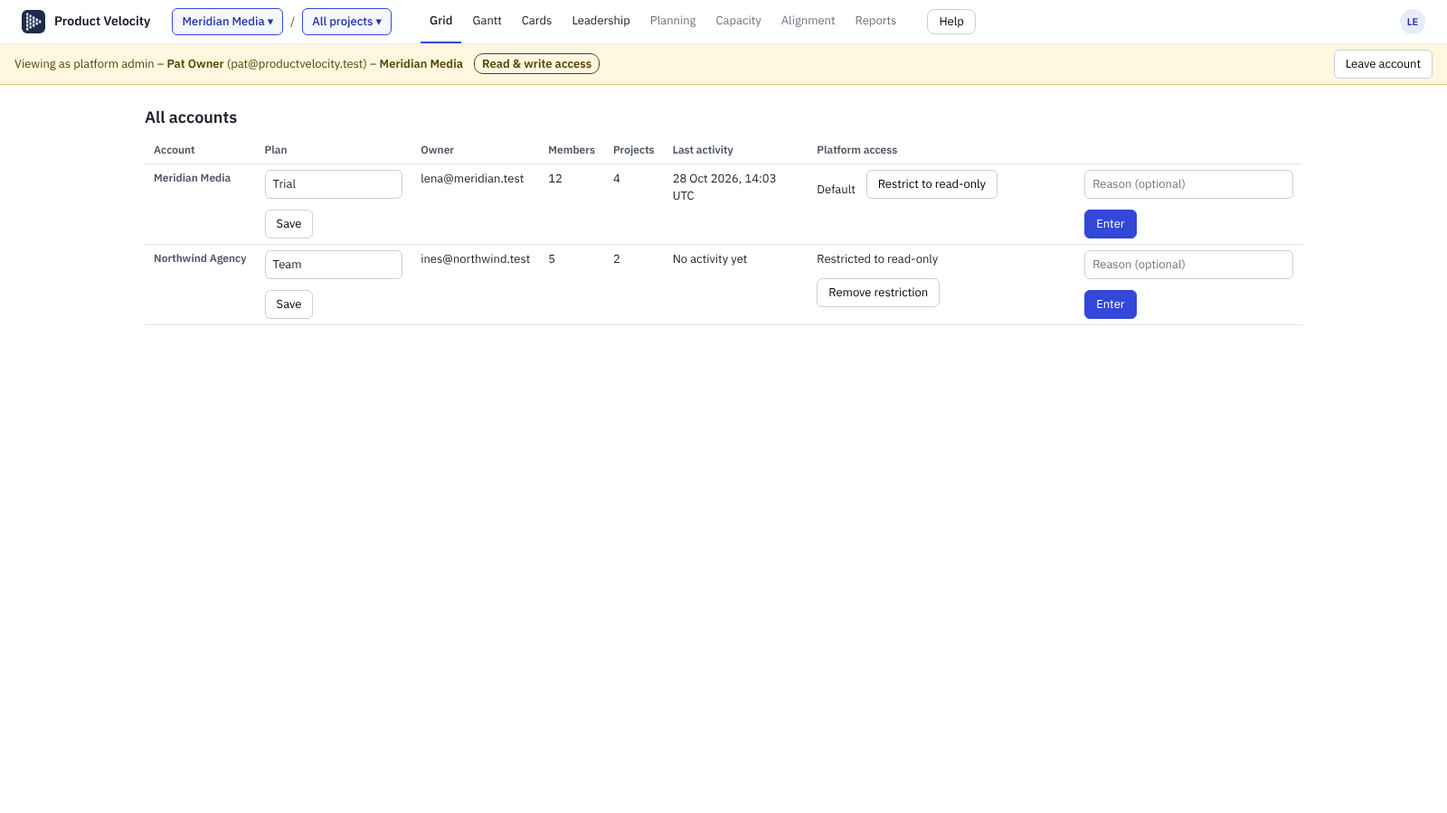
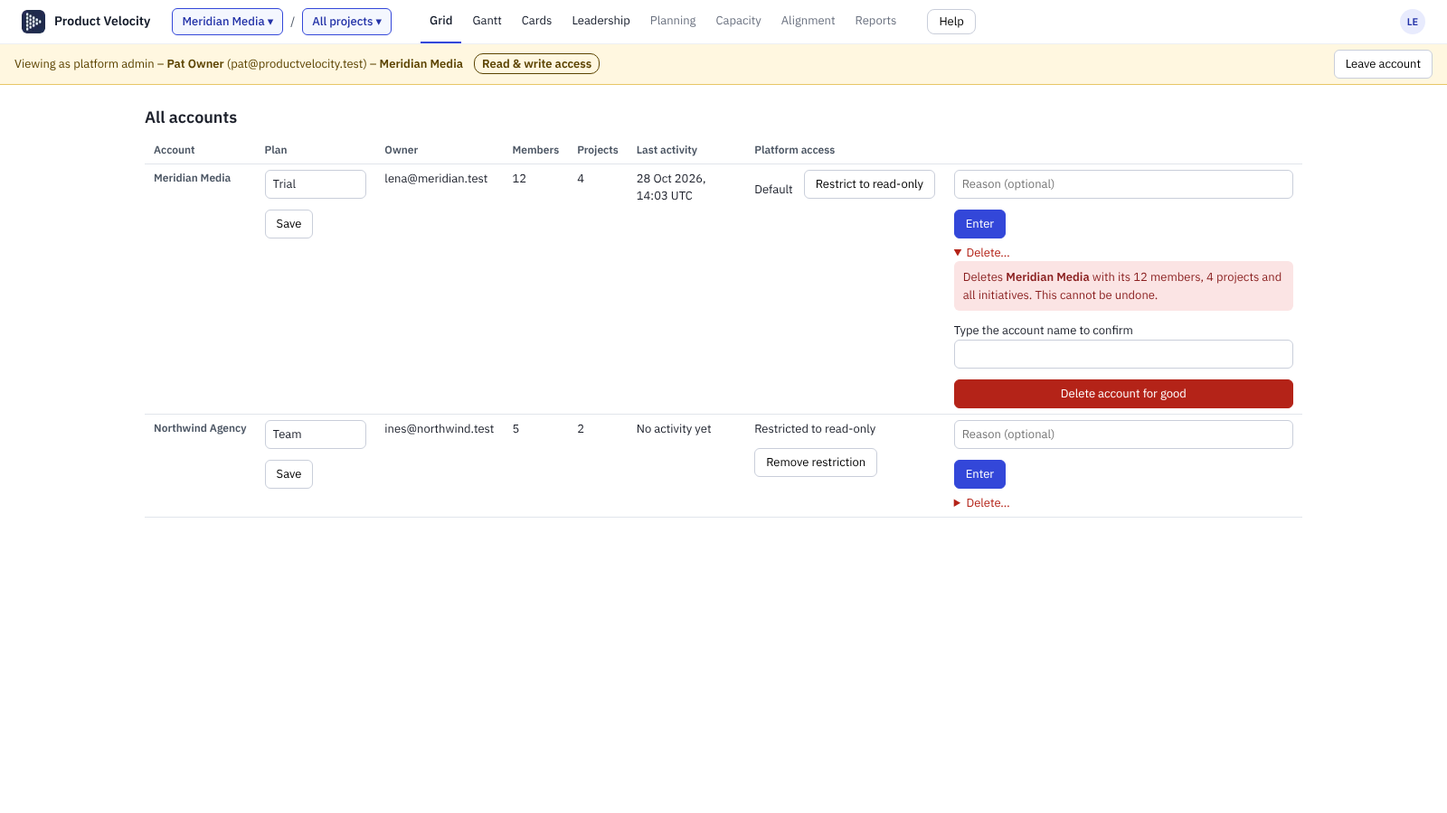
Account switcher width and links, delete account for platform admins, + New account (R-111 follow-up, migration 0053)
Claude-Session: https://claude.ai/code/session_01TMdyHtvBtjsL23qP6HSBBB

diff --git a/apps/web/e2e/accounts.spec.ts b/apps/web/e2e/accounts.spec.ts
@@ -14,6 +14,12 @@ test.describe("account switcher (FR-1)", () => {
     await expect(menu.getByText("Recent")).toBeVisible();
     await expect(menu.getByRole("menuitemradio", { name: /Harbor Logistics/ })).toBeVisible();
     await expect(page.getByTestId("all-accounts-link")).toHaveCount(0); // platform admins only
+    await expect(page.getByTestId("new-account-link")).toHaveAttribute("href", "/onboarding?new=1");
+    // the search box stays inside the menu (it used to overflow)
+    const menuBox = await page.getByTestId("account-menu").boundingBox();
+    const searchBox = await page.getByLabel("Search accounts").boundingBox();
+    expect(menuBox!.width).toBeGreaterThanOrEqual(320);
+    expect(searchBox!.x + searchBox!.width).toBeLessThanOrEqual(menuBox!.x + menuBox!.width + 0.5);
     await page.screenshot({ path: "../../docs/screenshots/account-switcher.png" });
     await page.getByRole("searchbox", { name: "Search accounts" }).or(page.getByRole("combobox", { name: "Search accounts" })).fill("north");
     await expect(menu.getByRole("menuitemradio")).toHaveCount(1);
@@ -37,6 +43,9 @@ test.describe("account switcher (FR-1)", () => {
     await page.goto("/dev/accounts?accounts=1&platform=1");
     await page.getByTestId("account-chip").click();
     await expect(page.getByTestId("all-accounts-link")).toHaveAttribute("href", "/platform");
+    // one link per row: nothing else in the row is a link
+    await expect(page.getByTestId("all-accounts-link").getByRole("link")).toHaveCount(0);
+    await page.screenshot({ path: "../../docs/screenshots/account-switcher-platform.png" });
   });
 });
 
@@ -105,6 +114,12 @@ test.describe("All accounts console (FR-2.2)", () => {
     await expect(rows.nth(1)).toContainText("No activity yet");
     await expect(rows.nth(1).getByRole("button", { name: "Remove restriction" })).toBeVisible();
     await expect(page.getByTestId("enter-account")).toHaveCount(2);
+    // delete asks for the account name first
+    const del = rows.nth(0).locator("details.delete-account");
+    await del.locator("summary").click();
+    await expect(del).toContainText("Deletes Meridian Media with its 12 members, 4 projects");
+    await expect(del.getByLabel("Type Meridian Media to confirm deleting it")).toBeVisible();
+    await expect(del.getByTestId("delete-account")).toBeVisible();
     await page.screenshot({ path: "../../docs/screenshots/platform-console.png" });
   });
   test("has no accessibility violations", async ({ page }) => {

diff --git a/packages/db/tests/platform-admin.test.ts b/packages/db/tests/platform-admin.test.ts
@@ -290,6 +290,32 @@ describe("platform-wide audit log (FR-6.6)", () => {
   });
 });
 
+describe("deleting an account (typed confirmation)", () => {
+  it("is refused to everyone but platform admins, and to a wrong name", async () => {
+    await reset();
+    expect(await errorCode(db.asUser(f.alice, (q) => q("select public.platform_delete_account($1, 'Tenant A')", [f.tenantA])))).toBe("42501");
+    expect(await errorCode(asPat((q) => q("select public.platform_delete_account($1, 'tenant a')", [f.tenantA])))).toBe("PV024");
+    expect(await errorCode(asPat((q) => q("select public.platform_delete_account(gen_random_uuid(), 'x')")))).toBe("P0002");
+    expect((await db.admin.query("select 1 from public.tenants where id = $1", [f.tenantA])).rowCount).toBe(1);
+  });
+
+  it("removes that account and all its data, leaves the other account whole, and logs who did it", async () => {
+    const before = (await db.admin.query("select count(*)::int n from public.items where tenant_id = $1", [f.tenantB])).rows[0].n;
+    await enter(f.tenantA); // an open entry must not block the cascade
+    const name = (await db.admin.query("select name from public.tenants where id = $1", [f.tenantA])).rows[0].name;
+    await asPat((q) => q("select public.platform_delete_account($1, $2)", [f.tenantA, name]), { commit: true });
+    for (const t of ["tenants", "tenant_members", "projects", "items", "invitations"]) {
+      expect((await db.admin.query(`select 1 from public.${t} where ${t === "tenants" ? "id" : "tenant_id"} = $1`, [f.tenantA])).rowCount, t).toBe(0);
+    }
+    expect((await db.admin.query("select count(*)::int n from public.items where tenant_id = $1", [f.tenantB])).rows[0].n).toBe(before);
+    // the members of the deleted account lose it; their other accounts stay
+    expect(await db.asUser(f.alice, async (q) => (await q("select 1 from public.tenants")).rowCount)).toBe(0);
+    const log = await asPat<{ field: string; actor_email: string; old: { name: string; members: number } }[]>(async (q) => (await q("select * from public.platform_config_log()")).rows);
+    expect(log[0]).toMatchObject({ field: "account_deleted", actor_email: "pat@platform.test" });
+    expect(log[0].old).toMatchObject({ name, members: 2 });
+  });
+});
+
 describe("guard coverage", () => {
   it("every public table with a tenant has the read-only guard, so a new table cannot be forgotten", async () => {
     const { rows } = await db.admin.query(

diff --git a/apps/web/src/app/platform/accounts-table.tsx b/apps/web/src/app/platform/accounts-table.tsx
@@ -1,5 +1,5 @@
 import { formatWhen } from "@/lib/audit-log";
-import { enterAccount, setAccountLevel, setPlan } from "./actions";
+import { deleteAccount, enterAccount, setAccountLevel, setPlan } from "./actions";
 
 export type AccountRow = { tenant_id: string; name: string; plan: string; owner_email: string | null; member_count: number; project_count: number; last_activity: string | null; access_override: string | null };
 
@@ -45,6 +45,15 @@ export function AccountsTable({ rows }: { rows: AccountRow[] }) {
                     <input name="reason" maxLength={500} placeholder="Reason (optional)" aria-label={`Reason for entering ${a.name}`} />
                     <button className="btn btn-primary" type="submit" data-testid="enter-account">Enter</button>
                   </form>
+                  <details className="delete-account">
+                    <summary>Delete…</summary>
+                    <form action={deleteAccount} className="stack">
+                      <input type="hidden" name="tenant" value={a.tenant_id} />
+                      <p className="error">Deletes <strong>{a.name}</strong> with its {a.member_count} members, {a.project_count} projects and all initiatives. This cannot be undone.</p>
+                      <label>Type the account name to confirm<input name="confirm_name" autoComplete="off" required aria-label={`Type ${a.name} to confirm deleting it`} /></label>
+                      <button className="btn btn-danger" type="submit" data-testid="delete-account">Delete account for good</button>
+                    </form>
+                  </details>
                 </td>
               </tr>
             ))}

diff --git a/apps/web/src/app/onboarding/page.tsx b/apps/web/src/app/onboarding/page.tsx
@@ -10,7 +10,7 @@ export const metadata = { title: "Create your workspace · Product Velocity" };
 export default async function OnboardingPage({ searchParams }: { searchParams: Promise<{ new?: string }> }) {
   const { new: wantsNew } = await searchParams;
   const { supabase, user } = await requireUser("/onboarding");
-  if ((await loadMemberships(supabase, user.id)).length > 0) redirect("/portfolio");
+  if (wantsNew !== "1" && (await loadMemberships(supabase, user.id)).length > 0) redirect("/portfolio"); // ?new=1 is the switcher's "+ New account"
   // someone at an authorized domain waits for their admin instead of starting a second workspace (they can still choose to)
   if (wantsNew !== "1") {
     const asked = user.email ? await syncDomainAccess(supabase, user.email) : [];
@@ -21,9 +21,9 @@ export default async function OnboardingPage({ searchParams }: { searchParams: P
   return (
     <main className="auth-page">
       <div className="card auth-card">
-        <h1>Create your workspace</h1>
+        <h1>{wantsNew === "1" ? "Create a new account" : "Create your workspace"}</h1>
         <p className="muted">
-          You will be its first admin. You can invite your team next. If someone already invited
+          You will be its first admin. You can invite your team next, from Members in the account menu. If someone already invited
           you, open the invitation link they sent instead.
         </p>
         <CreateTenantForm suggestedDomain={suggested} countries={countryOptions()} currencies={currencyOptions()} timeZones={timeZoneOptions()} />

diff --git a/apps/web/src/components/account-switcher.tsx b/apps/web/src/components/account-switcher.tsx
@@ -73,12 +73,13 @@ export function AccountSwitcher({ accounts, activeId, activeName, isPlatformAdmi
             {shownRecent.map((a) => row(a, `r-${a.tenantId}`))}
             {shown.length > 0 && <p className="scope-head">{accounts.length === 1 ? "Your account" : "All your accounts"}</p>}
             {shown.map((a) => row(a, a.tenantId))}
-            {isPlatformAdmin && !searching && (
+            {!searching && (
               <>
-                <p className="scope-head">Platform</p>
-                <Link role="menuitem" href="/platform" className="scope-item" data-testid="all-accounts-link" onClick={() => close()}>
-                  <span>All accounts console</span><span className="scope-meta">platform admins</span>
-                </Link>
+                <p className="scope-head">More</p>
+                <Link role="menuitem" href="/onboarding?new=1" className="scope-item scope-link" data-testid="new-account-link" onClick={() => close()}>+ New account</Link>
+                {isPlatformAdmin && (
+                  <Link role="menuitem" href="/platform" className="scope-item scope-link" data-testid="all-accounts-link" onClick={() => close()}>All accounts console (platform admins)</Link>
+                )}
               </>
             )}
           </div>

diff --git a/apps/web/src/app/platform/page.tsx b/apps/web/src/app/platform/page.tsx
@@ -12,6 +12,8 @@ const NOTICE: Record<string, string> = {
   "account-unrestricted": "The read-only restriction on that account was removed. The change is in its audit log.",
   "plan-saved": "Plan saved.",
   "bad-plan": "Enter a plan name of 1 to 40 characters.",
+  deleted: "Account deleted. This is recorded in the configuration log.",
+  "delete-name": "The name you typed does not match, so nothing was deleted.",
   failed: "That did not work. Please try again.",
 };
 
@@ -31,7 +33,7 @@ export default async function PlatformAccountsPage({ searchParams }: { searchPar
         . Entering an account is logged in that account&rsquo;s audit log, and a banner stays on screen while you are inside.
       </p>
       {notice && NOTICE[notice] && (
-        <p role="status" className={notice === "reauth" || notice === "failed" || notice === "enter-failed" ? "notice notice-error" : "notice"}>{NOTICE[notice]}</p>
+        <p role="status" className={notice === "reauth" || notice === "failed" || notice === "enter-failed" || notice === "delete-name" ? "notice notice-error" : "notice"}>{NOTICE[notice]}</p>
       )}
       {notice === "reauth" && (
         <form action="/auth/sign-out" method="post">

diff --git a/apps/web/src/styles/globals.css b/apps/web/src/styles/globals.css
@@ -672,3 +672,12 @@ kbd { font-family: var(--font-mono); font-size: 12px; background: var(--grey-3);
 .data-table th { font-size: 12px; color: #4b5563; font-weight: 600; white-space: nowrap; }
 .filter-bar { display: flex; flex-wrap: wrap; gap: 8px; align-items: end; margin: 12px 0; }
 .filter-bar label { display: flex; flex-direction: column; gap: 2px; font-size: 12px; color: #4b5563; }
+
+/* R-111 follow-up: the account menu is wide enough for its search box, and its links read as one row each */
+.scope-menu:has(.search-input) { min-width: 320px; box-sizing: border-box; }
+.scope-menu .search-input { width: calc(100% - 16px); box-sizing: border-box; }
+a.scope-link { text-decoration: none; color: inherit; }
+a.scope-link:hover, a.scope-link:focus-visible { background: var(--blue-tint-2); outline: none; }
+.delete-account { margin-top: 6px; }
+.delete-account summary { cursor: pointer; color: #b42318; }
+.btn-danger { background: #b42318; border-color: #b42318; color: #fff; }

diff --git a/apps/web/src/app/platform/actions.ts b/apps/web/src/app/platform/actions.ts
@@ -73,3 +73,13 @@ export async function setPlan(form: FormData): Promise<void> {
   const { error } = await supabase.rpc("platform_set_plan", { p_tenant: tenant, p_plan: plan });
   done("/platform", error ? "failed" : "plan-saved");
 }
+
+/** Deletes an account for good. The database refuses unless the exact account name is typed; the deletion is recorded in the configuration log. */
+export async function deleteAccount(form: FormData): Promise<void> {
+  const tenant = String(form.get("tenant") ?? "");
+  const name = String(form.get("confirm_name") ?? "");
+  const { supabase } = await requirePlatformAdmin("/platform");
+  if (!UUID.test(tenant)) done("/platform", "bad-account");
+  const { error } = await supabase.rpc("platform_delete_account", { p_tenant: tenant, p_confirm_name: name });
+  done("/platform", error ? (error.code === "PV024" ? "delete-name" : "failed") : "deleted");
+}

diff --git a/apps/web/src/app/(workspace)/account/page.tsx b/apps/web/src/app/(workspace)/account/page.tsx
@@ -110,6 +110,7 @@ export default async function AccountPage({ searchParams }: { searchParams: Prom
           </tbody>
         </table>
         <p className="muted">A workspace always keeps at least one admin, so its last admin cannot leave. Leaving does not delete the work you did there.</p>
+        <p><Link className="btn" href="/onboarding?new=1">+ New account</Link> You become its first admin and can invite people from Members in the account menu.</p>
       </div>
 
       <h2>Notifications</h2>

diff --git a/docs/DECISIONS.md b/docs/DECISIONS.md
@@ -184,3 +184,4 @@ Append new decisions at the bottom: date, decision, reason, who decided.
 - 2026-10-28 · Issue #207 (R-109), 0.44.1: the sort was lost on Update for two reasons. (1) `saveDefaultView` (Update on a built-in view, which is a workspace view) never wrote `sort`. (2) Clearing a sort leaves no `sort` key in the view definition, and `updateView` only wrote the column when the key was present, so "no sort" was never saved and the old sort came back. Fix: both now write `sort` (null for none), the Update call passes `sort: null` explicitly and the store treats a present key as the value. Sort control is two steps (column, then direction and Apply); direction words by field type; a saved sort on a column the view does not show falls back to the default order. No migration (the `sort` column and its grants exist since 0041). Built on the branch `claude/intelligent-hamilton-32oge5` as the session required, not `issue-207-*`. · Claude
 - 2026-10-28 · Issue #216 (R-110), 0.45.0, migration 0049. Ashu chose: (1) **member status is a column on `tenant_members`** (`requested | active | paused | revoked`; "Invited" is a pending invitation, not a stored status), and every membership check (`is_tenant_member`, `is_tenant_admin`, the `my_*_tenant_ids()` helpers, `tenant_directory`, and the SECURITY DEFINER and trigger functions that read membership, which now read the security-invoker view `active_tenant_members`) counts **active rows only**, so a requested, paused or revoked person has no access anywhere; non-active people cannot read their own row either, they learn their state through `my_access_requests()`. (2) The grid offers **all five existing roles**, not only the issue's Admin / Creator / Viewer. (3) **Domain safety:** free-mail providers (gmail.com and about 25 more, `FREE_MAIL_DOMAINS` in `@pv/domain` and a trigger in 0049) cannot be authorized domains; only a **confirmed** email can request access; a request grants nothing until an admin sets Active. DNS verification stays out of scope (as the issue says), so two workspaces may list the same domain (a first claim must not lock the real owner out; the requester is then waiting in each) and the go-live checklist has the DNS item. (4) Country, currency and time zone are added to the workspace in this release. Decisions I made: status is changed only through `set_member_status(ids, status)` (admin, per-row result with a reason, audited, own row and service accounts refused, last active admin protected by the existing guard, now counting active admins only); there is no column grant on `status`. Allowed moves: requested to active or revoked, active to paused or revoked, paused to active or revoked, revoked to active. **Deviation from FR-4.3:** an *Invited* row cannot be set to Active by an admin (there is no account yet); it can be cancelled (Revoked), and the person becomes Active by accepting the invitation, so no approval email applies there. The approval email is sent when Requested Access becomes Active (and not for Paused or Revoked to Active); a failed email never undoes the approval and is reported in the result. A requested row starts as Viewer; the admin can change the role inline before or after approving. `accept_invitation` now also reactivates a requested, paused or revoked person with the invited role (the admin chose to invite them). A work-email creator must give at least one authorized domain at onboarding (prefilled from their address); a creator with a personal address may start with none (FR-1.2 asks for 1+, but a free-mail owner has no domain to give). The people who arrive by domain are sent to the holding screen `/access-requested` instead of onboarding unless they choose "Create my own workspace instead". The members grid is a plain accessible table with checkboxes, not AG Grid (it has a few dozen rows and needs none of its features). Admin alert: an email to every active human admin when a request is made (Resend, only if configured, at most 10 recipients) plus a banner in the app while requests are open. Built on the branch `claude/fervent-johnson-aklb5z` as the session required, not `issue-216-*`. · Claude (issue #216)
 - 2026-10-28 · Issue #219 (R-111), 0.46.0, migrations 0050 to 0052. **Ashu chose:** build the **whole issue** (all four phases) in one PR, and that the issue **overrides** `docs/15` section 5.5 where it says staff are read-only by default (platform admins now get read & write by default, configurable). **I decided, and you can reverse:** (1) **No `users`/`memberships` split migration.** `auth.users` already is the identity and `tenant_members` already is the membership (role, Approver, status, dates, keyed on tenant). Phase 0 steps 1 to 3 (inventory, schema, migrate) and 8 (public-domain guard, built in R-110) are therefore not needed; what was missing and is built: audit snapshot, per-membership last login, one place for audit writes (the existing triggers, extended). (2) **Address `/w/{account}/…`, not `/a/{account}/…`**: `/a/{token}` is the alignment ballot link. The proxy strips the prefix and passes the account in a header, so no route moved; unknown or forbidden account in the address is "not found" for everyone. (3) **Platform admin = `platform.admins` flag + an explicit, logged, 8-hour entry**, not blanket access: the existing RLS helpers honour an open entry, so no policy changed and there is no service-role bypass; an entry counts as editor and admin at either level and a trigger on every tenant table refuses writes in read-only mode with a clear error (RLS alone would silently skip updates). A test fails if a new table lacks the trigger. (4) **Carve-outs kept** from rule 3 and 10 although the issue says "full ability": a platform admin never holds Approver, cannot change members, roles, statuses or invitations, cannot send (invitation or alignment emails, GitHub writes) or reach integration secrets. Say so if you want any of these opened. (5) **Re-authentication** (FR-5.2) = a sign-in within the last 15 minutes when entering with write access (the same rule as the account page); two-factor still applies if the admin enrolled, but is not required (go-live item). (6) **Access level** precedence: an account restriction (read-only only) or a read-only admin level wins over a read-write default; an admin's own level, when set, replaces the default. (7) **Customers see platform admin names and emails** in their audit log (FR-2.9, the proposed default). (8) **Audit log:** the snapshot (name, email, role) is taken by the database from the session, never by a client; old rows are not backfilled because the log is append-only and the names were not recorded (they say "before names were recorded"); last login is excluded from the log; the screen label is advisory (a short plain label from a request header); CSV export is capped at 5,000 rows with the same filters; retention is **not decided** (open question in the issue, listed in `14`). (9) **Restrict invites to authorized domains** blocks off-domain invitations (the stricter of the issue's two options; "marked guest" is not built); default off. (10) **Linked emails:** verified by a 6-digit code (no link to click), one verified owner per address, no silent merge: a clash looks the same as any other answer and nothing is sent; merging two existing accounts is manual support for now. Sign-in with a linked address works for password sign-in (the server resolves it to the sign-in address); magic links are not offered anywhere yet. Removing a linked address sends memberships that came only through it back to **Requested Access** (reusing the admin's review queue) instead of adding a new "needs review" state. (11) **`tenants.plan`** is only a label that platform admins set (default "Trial"); billing and seats stay in Phase 9. (12) **First platform admin** is created with SQL by the product owner (`14`); there is no self-service way to become one.
+- 2026-10-28 · R-111 follow-up (Ashu's review of 0.46.0, migration 0053): (1) a platform admin can **delete an account** from the All accounts console: hard delete (every tenant table cascades), only after typing the exact account name, recorded in the configuration log (who, when, name, member/project/initiative counts); audit_log rows stay (no foreign key by design). **Not removed:** files in storage and the GitHub App installation, which need a cleanup step before real customers (`14`). Chosen over a soft delete because Ashu asked for delete; backups are the undo. (2) **+ New account** is in the account switcher and on the Account page (`/onboarding?new=1`): any signed-in person can create another account and becomes its first admin; inviting people is Members in the account menu. (3) Switcher menu: wider search box, one link per row.

diff --git a/docs/RELEASES.md b/docs/RELEASES.md
@@ -4,7 +4,7 @@ The version is shown at the bottom of the account menu ("app v0.30.0 · build ab
 
 | Version | Date | Key updates | PRs |
 |---|---|---|---|
-| 0.46.0 | 2026-10-28 | **Account switcher, platform admin access, audit log and linked emails (issue #219, R-111).** The first breadcrumb segment is now an **account switcher** (search, Recent, last used account on login) and the account is in the address (`/w/{account}/gantt`), so switching keeps the tab; a person with one account sees no dropdown. A **platform admin** (a flag, not a member) opens the **All accounts** console (`/platform`: plan, owner, members, projects, last activity, search), **enters** an account with **read & write by default**, sees a banner ("Viewing as platform admin - name (email) - account", access level) and does not appear in the customer's Members grid. The level is configurable: platform default, per admin, per account; **read-only is enforced by the server** (errors `PV021`), the UI disables edit controls, and every configuration change is logged. Entering needs a sign-in within 15 minutes when writing. A new **Audit log** (Account menu, admins; `/platform/audit` for all accounts) shows who (**name and email as they were at the time**), role at the time, when (with time zone), where (account, project, object, screen), what (old and new value) and how, with a Platform admin badge, filters and CSV export; batch actions share a batch id; last login is now per membership. **Linked verified emails** (Account page): add an address, verify it with a 6-digit code, sign in with it, choose where notifications go; an address on an authorized domain creates Requested Access; removing it sends access that came only through it back for review; invitations can be accepted with any verified address. New workspace setting **Restrict invites to authorized domains** (default off). Migrations 0050, 0051, 0052. Carve-outs kept: platform admins cannot approve, change members or roles, send invitations or reach integration secrets. | this PR |
+| 0.46.0 | 2026-10-28 | **Account switcher, platform admin access, audit log and linked emails (issue #219, R-111).** The first breadcrumb segment is now an **account switcher** (search, Recent, last used account on login) and the account is in the address (`/w/{account}/gantt`), so switching keeps the tab; a person with one account sees no dropdown. A **platform admin** (a flag, not a member) opens the **All accounts** console (`/platform`: plan, owner, members, projects, last activity, search), **enters** an account with **read & write by default**, sees a banner ("Viewing as platform admin - name (email) - account", access level) and does not appear in the customer's Members grid. The level is configurable: platform default, per admin, per account; **read-only is enforced by the server** (errors `PV021`), the UI disables edit controls, and every configuration change is logged. Entering needs a sign-in within 15 minutes when writing. A new **Audit log** (Account menu, admins; `/platform/audit` for all accounts) shows who (**name and email as they were at the time**), role at the time, when (with time zone), where (account, project, object, screen), what (old and new value) and how, with a Platform admin badge, filters and CSV export; batch actions share a batch id; last login is now per membership. **Linked verified emails** (Account page): add an address, verify it with a 6-digit code, sign in with it, choose where notifications go; an address on an authorized domain creates Requested Access; removing it sends access that came only through it back for review; invitations can be accepted with any verified address. New workspace setting **Restrict invites to authorized domains** (default off). Platform admins can **delete an account** (typed name, logged); **+ New account** in the switcher. Migrations 0050 to 0053. Carve-outs kept: platform admins cannot approve, change members or roles, send invitations or reach integration secrets. | this PR |
 | 0.45.0 | 2026-10-28 | **Workspace onboarding, one Members grid and domain-based access (issue #216, R-110).** Creating a workspace now also asks for country, currency, time zone and **authorized email domains** (prefilled from your work address; free-mail providers are refused); the same settings live under **Workspace settings** in the account menu. Someone who signs up with a confirmed address at an authorized domain becomes **Requested Access**, sees a holding screen ("We requested your organization admin to review your request…") and gets no access; admins are emailed and see a banner. **Members** is a single table of every state (Requested Access, Invited, Active, Paused, Revoked) with Create Date and Last Login, inline Role, Approver and Status, search, status filters, multi-select with a batch bar (approve four requests in one click; approved people get a confirmation email with a link) and **Create new invite**. Pausing or revoking removes access at once; a workspace always keeps one active admin. Migration 0049 (status column, domains and profile, `set_member_status`, `members_grid`, `request_access_by_domain`; every membership check now counts active members only). Deviation: an invited person cannot be set Active by an admin, only cancelled; they become Active by accepting. Needs Supabase "Confirm email" on and, for emails, the Resend settings in `docs/14`. | this PR |
 | 0.44.1 | 2026-10-28 | **Fix: the sort is saved with the view, and the sort control has two steps (issue #207, R-109).** Choosing **Update** after sorting lost the sort on built-in views (the database write left the sort out) and clearing a sort was never saved. Both are fixed: Update and Save as new view store the sort, or "no sort", and reopening or reloading the view applies it. The **Sort** control now asks for a column first, then a direction (A-Z / Z-A, Low to high / High to low for numbers, Oldest first / Newest first for dates) and applies only when you press **Apply**; **Clear sort** returns to the Stack Rank order. A saved sort on a column the view no longer shows falls back to the default order. No migration. | this PR |
 | 0.44.0 | 2026-10-28 | **Claude can attach files and images and share them (issue #183, MCP slice 5).** New tools `add_file` (PNG, JPEG, GIF, WebP, PDF as base64; 10 MB, 20 per initiative; the type comes from the first bytes, so SVG, HTML and renamed scripts are refused with a readable message), `set_file_sharing` (on returns `/f/<token>/<name>`; off makes the address answer 404 at once; the result says in plain words that anyone with the link can open the file and, for a **public** repository, that the link will **not** be written to the GitHub issue, and for a private one that it is added on the next push) and `remove_file` (asks the person first). `list_files` already existed. The item panel and Claude now share one set of functions (`lib/files/actions`), so both go through the signed-in person's own rights; uploads, sharing changes and removals are audited with source Claude MCP. Uploaded bytes count toward the daily upload limit in `ai_usage`. A viewer connection cannot upload and another workspace's file ids are not reachable (two-tenant tests). **Not in this release:** an upload URL for large files (waits for the live Claude test, see `docs/08`). No migration. | this PR |

diff --git a/docs/11-ENVIRONMENTS.md b/docs/11-ENVIRONMENTS.md
@@ -24,7 +24,7 @@ Secrets only in environment variables. `.env*` files are git-ignored except `.en
 - Suggested setup: two Supabase projects, `product-velocity-preview` (used by Vercel Preview and Development) and `product-velocity-prod` (Production only). Use different keys in each.
 - Tests (`pnpm db:test`) never touch Supabase. They create a throwaway database on the Postgres in `TEST_DATABASE_URL` and use `packages/db/tests/supabase-shim.sql` to imitate `auth.uid()` and the roles. CI runs a Postgres 16 service for this. Real-Supabase behaviour of the same policies is checked by running the migrations on the Preview project (still to do, see PR notes).
 - Variables and their Vercel type: see `.env.example`.
-- State of the real project `Provelo` (tnhlivowltvwvjhbknrc, eu-west-1): migrations 0001 to 0008 are applied and recorded in `pv_meta.schema_migrations`; 0009 to 0012 were applied by Ashu in the SQL editor on 2026-10-22 (R-013 covers recording them); **0019 (item GitHub links, issue #33), 0020 (follow-only links), 0021 (read-only repositories) 0022 (inbound sync) and 0023 (Initiative Status and build cycle) were applied the same way on 2026-10-23, not recorded either.** **0018 (GitHub connections, issue #31) was applied to this project with the Supabase tool on 2026-10-23 and is not recorded in `pv_meta.schema_migrations`, like 0009 to 0017, which the database already contains (checked: tables and functions of 0009, 0011, 0013, 0015, 0017 exist); R-013 records 0009 to 0018 together.** 0013 (Initiative Groups), 0014 (item activity) and 0015 (weekly updates, issue #29) are not recorded here yet: apply any you have not in the SQL editor, in order (0001 was first pasted into the SQL editor, 0002 to 0008 applied by Claude). Migration 0017 (delete and Trash, issue #52) removes the direct DELETE on items and replaces the rank constraint (it drops and re-adds constraints and policies, no data is touched): apply it in the SQL editor after 0016, and expect the editor to ask you to confirm because of the DROP CONSTRAINT. Migration 0033 (Description) only adds a column and its grants: apply it in the SQL editor after the earlier ones (no DROP). **Migrations 0050 (audit attribution), 0051 (platform admin access) and 0052 (linked emails), issue #219, are not applied to Provelo yet:** they add columns, three tables in two new schemas (`platform`, `identity`), replace the access helpers and `audit_row` / `members_grid` / `set_member_status` / `accept_invitation` / `request_access_by_domain`, and drop no data; apply them in order and then create the first platform admin (`docs/14`). **Migration 0045 (Claude writes, issue #182) is not applied to Provelo yet:** it replaces `items_guard` and two audit functions, adds two tables and five functions, and drops no data; apply it in the SQL editor after 0044 before connecting Claude to a workspace that should use the new write tools. `pnpm db:migrate` against it should print "Up to date". The Supabase security advisor lists five intentional warnings, all for functions signed-in users are meant to call: `create_tenant`, `accept_invitation`, `tenant_directory` (each checks the caller inside) and `is_tenant_member` / `is_tenant_admin` (used by the RLS policies; they only reveal the caller's own membership). No trigger function is callable through the API. The other signed-in-callable functions (`move_item`, `my_tenant_ids`, `my_editor_tenant_ids`, `my_admin_tenant_ids`) check the caller inside or only return the caller's own tenants. The advisor also notes (INFO) that the internal table `pv_internal.item_counters` has RLS and no policies: intended, it is not exposed through the API. `invitation_preview` (0006) and `invitation_account_exists` (0007) are intentionally callable by anonymous visitors, so the advisor also flags them ("anon can execute SECURITY DEFINER"); it only answers for the exact invitation token.
+- State of the real project `Provelo` (tnhlivowltvwvjhbknrc, eu-west-1): migrations 0001 to 0008 are applied and recorded in `pv_meta.schema_migrations`; 0009 to 0012 were applied by Ashu in the SQL editor on 2026-10-22 (R-013 covers recording them); **0019 (item GitHub links, issue #33), 0020 (follow-only links), 0021 (read-only repositories) 0022 (inbound sync) and 0023 (Initiative Status and build cycle) were applied the same way on 2026-10-23, not recorded either.** **0018 (GitHub connections, issue #31) was applied to this project with the Supabase tool on 2026-10-23 and is not recorded in `pv_meta.schema_migrations`, like 0009 to 0017, which the database already contains (checked: tables and functions of 0009, 0011, 0013, 0015, 0017 exist); R-013 records 0009 to 0018 together.** 0013 (Initiative Groups), 0014 (item activity) and 0015 (weekly updates, issue #29) are not recorded here yet: apply any you have not in the SQL editor, in order (0001 was first pasted into the SQL editor, 0002 to 0008 applied by Claude). Migration 0017 (delete and Trash, issue #52) removes the direct DELETE on items and replaces the rank constraint (it drops and re-adds constraints and policies, no data is touched): apply it in the SQL editor after 0016, and expect the editor to ask you to confirm because of the DROP CONSTRAINT. Migration 0033 (Description) only adds a column and its grants: apply it in the SQL editor after the earlier ones (no DROP). **Migration 0053 (platform delete account, one function) is also new. Migrations 0050 (audit attribution), 0051 (platform admin access) and 0052 (linked emails), issue #219, are not applied to Provelo yet:** they add columns, three tables in two new schemas (`platform`, `identity`), replace the access helpers and `audit_row` / `members_grid` / `set_member_status` / `accept_invitation` / `request_access_by_domain`, and drop no data; apply them in order and then create the first platform admin (`docs/14`). **Migration 0045 (Claude writes, issue #182) is not applied to Provelo yet:** it replaces `items_guard` and two audit functions, adds two tables and five functions, and drops no data; apply it in the SQL editor after 0044 before connecting Claude to a workspace that should use the new write tools. `pnpm db:migrate` against it should print "Up to date". The Supabase security advisor lists five intentional warnings, all for functions signed-in users are meant to call: `create_tenant`, `accept_invitation`, `tenant_directory` (each checks the caller inside) and `is_tenant_member` / `is_tenant_admin` (used by the RLS policies; they only reveal the caller's own membership). No trigger function is callable through the API. The other signed-in-callable functions (`move_item`, `my_tenant_ids`, `my_editor_tenant_ids`, `my_admin_tenant_ids`) check the caller inside or only return the caller's own tenants. The advisor also notes (INFO) that the internal table `pv_internal.item_counters` has RLS and no policies: intended, it is not exposed through the API. `invitation_preview` (0006) and `invitation_account_exists` (0007) are intentionally callable by anonymous visitors, so the advisor also flags them ("anon can execute SECURITY DEFINER"); it only answers for the exact invitation token.
 
 ## Sign-in setup (Supabase Auth): one-time, in the Supabase dashboard
 The app only works end to end once these are set. Ashu does them; Claude cannot change Auth settings.
